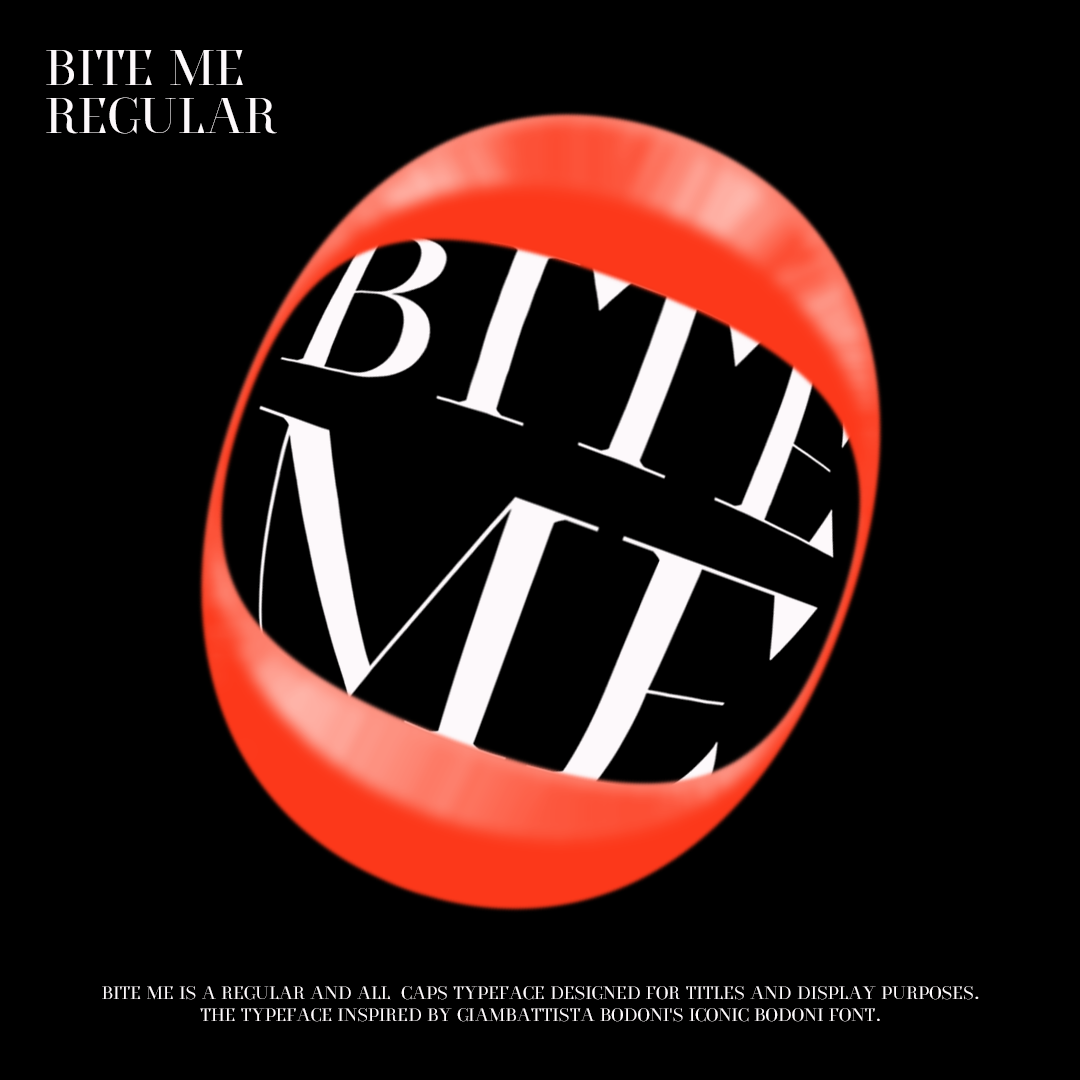
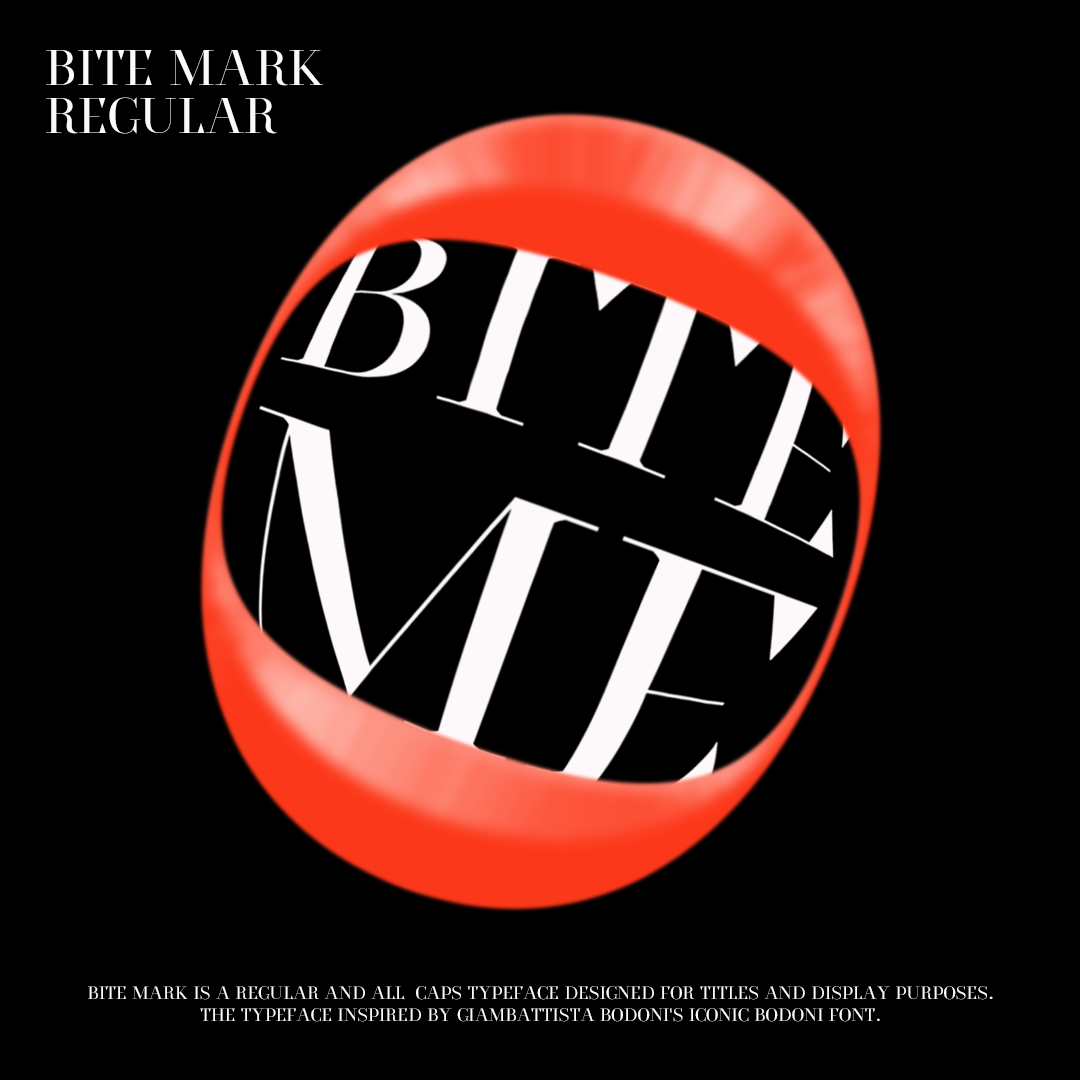
Add files via upload

Changed region(s): [[0.0917, 0.9167, 0.9167, 0.9472], [0.1833, 0.0306, 0.3056, 0.0917]]

diff --git a/project20.html b/project20.html
@@ -59,7 +59,7 @@
     <div id="SlowDown" class="project">
       <div class=" w-col  ">
         <!--<div class="title1">[Project]</div>-->
-        <div class="project_name">Bite Me<br>Regular</div>
+        <div class="project_name">Bite Mark<br>Regular</div>
         <!--<div class="project-year">2023</div>-->
         <div class="button-container">
           <div class="button1">2026</div>
@@ -70,7 +70,7 @@
       <!----<div class="w-col ">--
             <div class="title1">[About]</div>-->
       <div class="project-descriptor">
-        Bite Me Regular is a typeface inspired by Giambattista Bodoni’s iconic Bodoni typeface.
+        Bite Mark Regular is a typeface inspired by Giambattista Bodoni’s iconic Bodoni typeface.
         It embodies Bodoni’s distinctive skeletal structure while incorporating a unique, contemporary twist of my own.
         <br>
         <br>
@@ -82,7 +82,7 @@
         <br>
         <br>
         This is a work in progress, with plans to continue refining and expanding the typeface to include lowercase
-        letters, punctuation, and numerals. I look forward to further developing Bite Me Regular into a complete
+        letters, punctuation, and numerals. I look forward to further developing Bite Mark Regular into a complete
         typeface that can be used across a variety of design contexts.
         <div class="divider"></div>
         <div class="flex-section">

diff --git a/index.html b/index.html
@@ -156,7 +156,7 @@ Marroquin
 
       <div class="gif_wrapper">
         <a href="project20.html"><img class="gif" src="Bite_Me_Cover.gif" alt=""></a>
-        <div class="caption"><a href="project20.html">Bite Me</a></div>
+        <div class="caption"><a href="project20.html">Bite Mark</a></div>
         <div class="text">Typeface inspired by Giambattista Bodoni's iconic Bodoni font.</div>
         <div class="button-container">
           <div class="button1">2026</div>

diff --git a/work.html b/work.html
@@ -52,7 +52,7 @@
 
       <div class="gif_wrapper">
         <a href="project20.html"><img class="gif" src="Bite_Me_Cover.gif" alt=""></a>
-        <div class="caption"><a href="project20.html">Bite Me</a></div>
+        <div class="caption"><a href="project20.html">Bite Mark</a></div>
         <div class="text">Typeface inspired by Giambattista Bodoni's iconic Bodoni font.</div>
         <div class="button-container">
           <div class="button1">2026</div>
